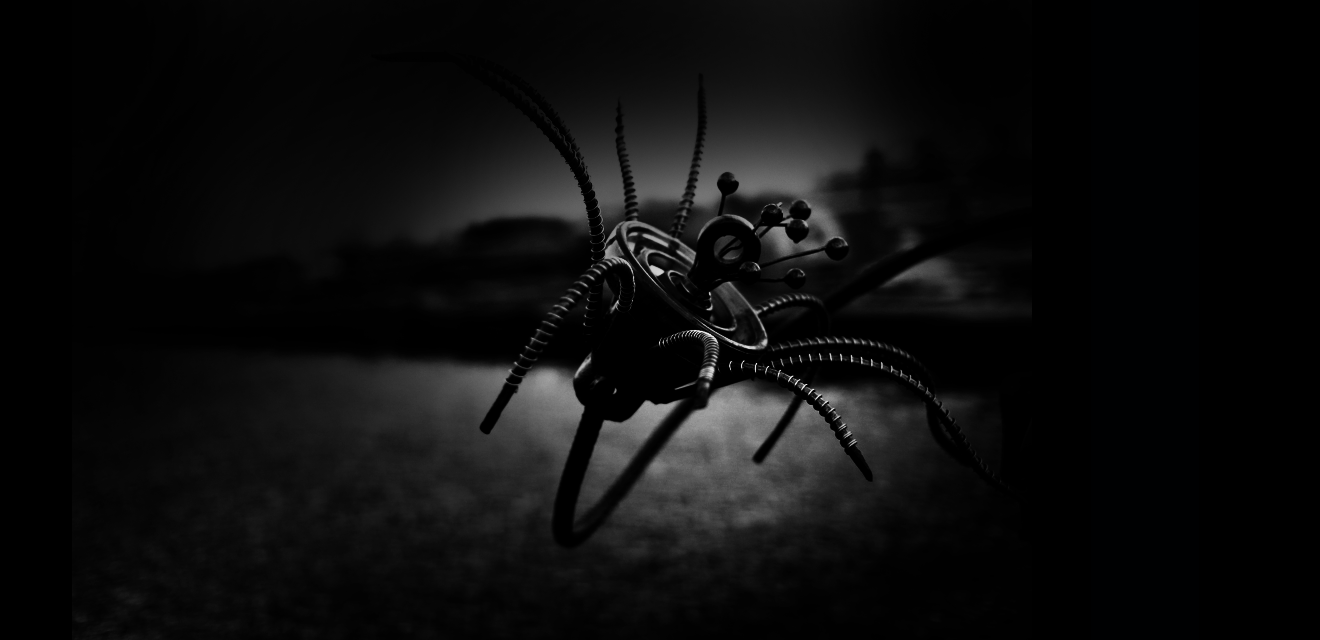
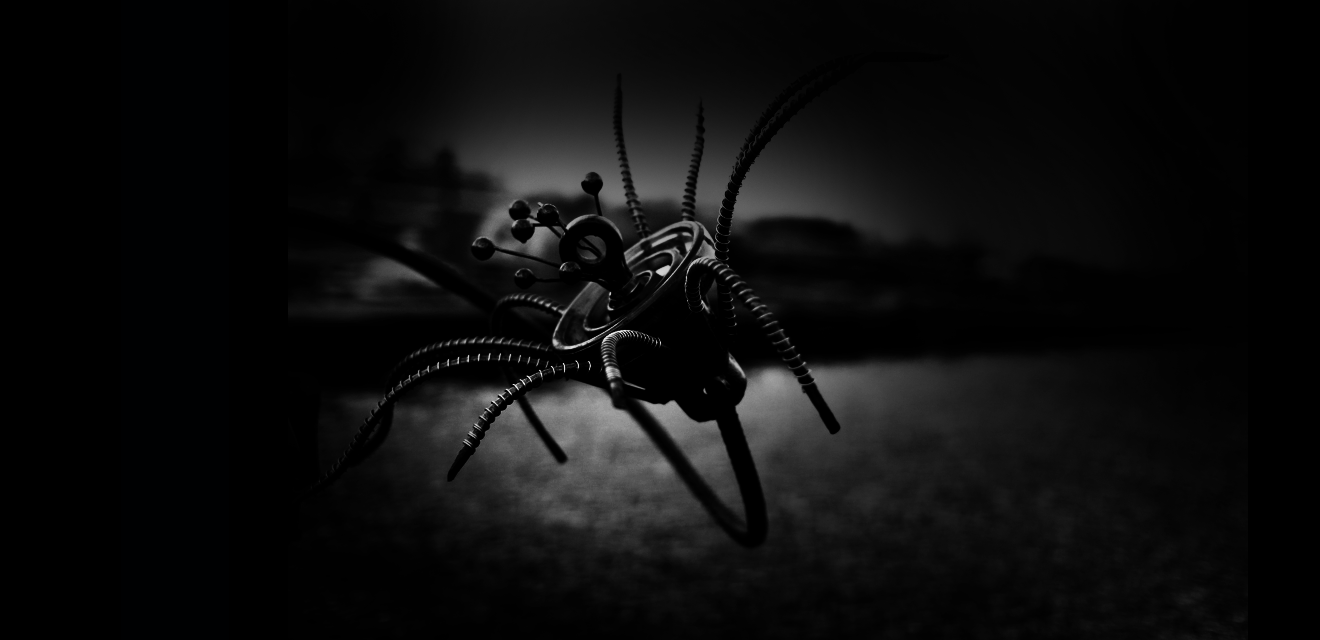
new UI

diff --git a/packages/react-app/src/App.jsx b/packages/react-app/src/App.jsx
@@ -18,6 +18,7 @@ import "graphiql/graphiql.min.css";
 import fetch from "isomorphic-fetch";
 import "./App.css";
 import {
+  About,
   Account,
   Contract,
   Address,
@@ -282,8 +283,10 @@ function App(props) {
   // keep track of a variable from the contract in the local React state:
 
   const artist = useContractReader(readContracts, "plantoid", "artist");
+  const owner  = useContractReader(readContracts, "plantoid", "owner"); 
 
   console.log({ artist });
+  console.log({owner})
 
   const plantoidAddressRead = readContracts?.plantoid?.address;
 
@@ -376,7 +379,9 @@ function App(props) {
   return (
     <div className="App">
       {/* ✏ Edit the header and change the title to your project name */}
-      <Header title="🥀 Plantoid" link="http://plantoid.org" subTitle="Feed me">
+      <Header title="🥀 Plantoid" link="http://plantoid.org" subTitle="a blockchain-based life-form">
+
+
         {/* 👨💼 Your account is in the top right with a wallet at connect options */}
         <div style={{ position: "relative", display: "flex", flexDirection: "column" }}>
           <div style={{ display: "flex", flex: 1 }}>
@@ -390,9 +395,9 @@ function App(props) {
               </div>
             )}
             <Account
-              useBurner={USE_BURNER_WALLET}
+              // useBurner={USE_BURNER_WALLET}
               address={address}
-              localProvider={localProvider}
+              // localProvider={localProvider}
               userSigner={userSigner}
               mainnetProvider={mainnetProvider}
               price={price}
@@ -403,18 +408,21 @@ function App(props) {
             />
           </div>
         </div>
+
+        
       </Header>
+
       {yourLocalBalance.lte(ethers.BigNumber.from("0")) && (
         <FaucetHint localProvider={localProvider} targetNetwork={targetNetwork} address={address} />
       )}
-      <NetworkDisplay
+      {/* <NetworkDisplay
         NETWORKCHECK={NETWORKCHECK}
         localChainId={localChainId}
         selectedChainId={selectedChainId}
         targetNetwork={targetNetwork}
         logoutOfWeb3Modal={logoutOfWeb3Modal}
         USE_NETWORK_SELECTOR={USE_NETWORK_SELECTOR}
-      />
+      /> */}
 
       <div>
         <hr class="style-eight"></hr>
@@ -428,14 +436,25 @@ function App(props) {
 
       <Menu style={{ textAlign: "center", marginTop: 20 }} selectedKeys={[location.pathname]} mode="horizontal">
         <Menu.Item key="/">
-          <Link to="/">Feed</Link>
+          <Link to="/">Feed Plantoid</Link>
         </Menu.Item>
         <Menu.Item key="/reveal">
-          <Link to="/reveal">Reveal</Link>
+          <Link to="/reveal">Claim NFTs</Link>
         </Menu.Item>
+        <Menu.Item key="/about">
+          <Link to="/about">About</Link>
+        </Menu.Item>
+
+
+        {/* only display these menu items, if the connected users is the plantoid  */}
+
+          {/* {plantoidAddress} */}
+          {/* { (address == plantoidAddress) && (<span> FUCK </span>) }   */}
+
         <Menu.Item key="/subgraph">
           <Link to="/subgraph">Subgraph</Link>
         </Menu.Item>
+
         <Menu.Item key="/contracts">
           <Link to="/contracts">Contracts</Link>
         </Menu.Item>
@@ -449,39 +468,46 @@ function App(props) {
               <h2>Plantoid #13</h2>
               <Divider />
               <div style={{ margin: 8 }}></div>
-              Hello !<br/>
-              <br/>
 
             <table>
-            <td>
-              <Image 
-                width={200}
-                height={370}
-                src="https://gateway.pinata.cloud/ipfs/QmQMna9Y3voEHJEZN4YEn9f35ivmr61sernPTbScRcEZzT"
+            <td  >
+              <Image style={{border: "1px solid ", marginLeft: "-50px" }}
+                width={350}
+                height={520}
+                src="https://gateway.pinata.cloud/ipfs/QmcNY71soxdqjNhhwQkfLFDGRx4kaVva7ERFiNWa1ZFk5m"
               />
              </td>
-              <td>
-              <table>
-                <td>Smart Contract:</td>
-             <td><Address
-                address={plantoidAddress}
-                ensProvider={mainnetProvider}
-                blockExplorer={blockExplorer}
-                fontSize={20}
-              /></td><tr/>
-              <td>Artist:  </td>
-              <td><Address address={artist} ensProvider={mainnetProvider} blockExplorer={blockExplorer} fontSize={20} /></td>
-              <tr/><td><Divider /></td>
-              Current balance: {ethers.utils.formatEther(plantoidBalance.toString())} <br />
-              Required threshold: {threshold ? ethers.utils.formatEther(threshold.toString()) : "???"} <br />
-              Currently in escrow: {escrow ? ethers.utils.formatEther(escrow.toString()) : "???"}
+              <td valign='top'>
+              
+              <table align="right">
+                <td  align="right">Smart Contract:</td>
+                <td><Address
+                    address={plantoidAddress}
+                    ensProvider={mainnetProvider}
+                    blockExplorer={blockExplorer}
+                    fontSize={24}
+                  /></td>
+                <tr/>
+
+                <td align="right">Artist:  </td>
+                <td><Address address={artist} ensProvider={mainnetProvider} blockExplorer={blockExplorer} fontSize={24} /></td>
+                <tr/>
+
+                <td><Divider /></td><tr/>
+
+              <td align="right">Current balance:</td>
+              <td> {ethers.utils.formatEther(plantoidBalance.toString())}</td><tr/>
+              <td>Required threshold:</td>
+              <td>{threshold ? ethers.utils.formatEther(threshold.toString()) : "???"}</td><tr/>
+              <td>Currently in escrow:</td>
+              <td>{escrow ? ethers.utils.formatEther(escrow.toString()) : "???"}</td>
              
               </table>
               </td> 
              </table> 
               
               <Divider />
-              Feed me !
+              <h2>Feed me !</h2>
               <EtherInput
                 price={price}
                 value={txValue}
@@ -556,6 +582,11 @@ function App(props) {
             mainnetProvider={mainnetProvider}
           ></Reveal>
         </Route>
+
+        <Route exact path="/about">
+          <About></About>
+        </Route>
+
         <Route path="/subgraph">
           <Subgraph
             subgraphUri={props.subgraphUri}
@@ -596,7 +627,7 @@ function App(props) {
 
       {/* 🗺 Extra UI like gas price, eth price, faucet, and support: */}
       <div style={{ position: "fixed", textAlign: "left", left: 0, bottom: 20, padding: 10 }}>
-        <Row align="middle" gutter={[4, 4]}>
+        {/* <Row align="middle" gutter={[4, 4]}>
           <Col span={8}>
             <Ramp price={price} address={address} networks={NETWORKS} />
           </Col>
@@ -618,7 +649,7 @@ function App(props) {
               Support
             </Button>
           </Col>
-        </Row>
+        </Row> */}
 
         <Row align="middle" gutter={[4, 4]}>
           <Col span={24}>

diff --git a/packages/react-app/src/components/About.jsx b/packages/react-app/src/components/About.jsx
@@ -1,0 +1,54 @@
+import { Button, Col, Menu, Row, Input, Divider, List, Image } from "antd";
+
+export default function About() {
+    return (
+        
+        <div style={{ border: "1px solid #cccccc", padding: 16, width: 800, margin: "auto", marginTop: 64 }}>
+          <h2>Plantoid #13</h2>
+          <Divider />
+       
+        <table valign="top">
+        <td>
+          <Image style={{border: "1px solid ", marginLeft: "-50px" }}
+            width={350}
+            height={520}
+            src="https://gateway.pinata.cloud/ipfs/QmcNY71soxdqjNhhwQkfLFDGRx4kaVva7ERFiNWa1ZFk5m"
+          />
+         </td>
+
+         <td><span class="plantoid-text-cursive">Plantoids are the plant equivalent of an android; a robot or a synthetic organism designed to look, act and grow like a plant.<br/>
+        <br/> Plantoids are blockchain-based life-forms that live off crypto-currency. 
+        They are:<br/> <br/>
+        <ul>
+            <li><b>autonomous</b>, i.e. not controlled by anyone,</li>
+            <li><b>self-sufficient</b> as they survive on their own, and </li>
+            <li><b>capable of reproducing themselves</b>.</li>
+            </ul>
+         <br/>Yet, like most plants, Plantoids cannot reproduce themselves on their own. They rely on capitalisation (as opposed to pollinisation) to reproduce.<br/>
+         <br/>Specifically, Plantoids collect crypto-currency and then use the collected funds to hire new artists, commissioned to create new replicas of themselves via an evolutionary algorithm.<br/>
+         </span><br/>
+         <Divider></Divider>
+        <span class="plantoid-text-cursive"> 
+         Plantoids is an art project initiated in 2014 by Primavera De Filippi, artist, activist and legal scholar, working on the field of cryptocurrency and blockchain technology.<br/>
+         <br/>The goal of the Plantoid project is to illustrate one of the most revolutionary—and yet still unexplored—aspects of blockchain technology: the ability to create autonomous entities that can both own (crypto-)property and enter into (smart-)contractual relationships, without the need to rely on any third-party (legal) entity. </span></td>
+        
+        </table>
+
+        <br/><span class="plantoid-text-cursive">
+        Plantoid #13 was born out of the contribution of many friends and colleagues, which I am deeply appreciative of.<br/>
+        These include, in particular:<br/><br/>
+        <ul>
+            <li>Yannick LeDaniel — body art and design</li>
+            <li>Martin Vert — electronics and music wiz</li>
+            <li>Isaac Patka — smart contract architecture</li></ul>
+            <Divider></Divider><ul>
+            <li>Leo Blondel & Patrick Deegan — electronics support</li>
+            <li>Louis Parker & Dimi DeJonghe — frontend support</li>
+            </ul><Divider></Divider><ul>
+            <li>All members of Feytopia and the GLITCH community who made me believe that everything is possible</li>
+        </ul>
+        </span>
+      
+      </div>
+    )
+}

diff --git a/packages/react-app/src/components/Address.jsx b/packages/react-app/src/components/Address.jsx
@@ -76,13 +76,14 @@ export default function Address(props) {
   return (
     <span>
       <span style={{ verticalAlign: "middle" }}>
-        <Blockies seed={address.toLowerCase()} size={8} scale={props.fontSize ? props.fontSize / 7 : 4} />
+        {/* <Blockies seed={address.toLowerCase()} size={4} scale={props.fontSize ? props.fontSize / 7 : 4} /> */}
       </span>
       <span style={{ verticalAlign: "middle", paddingLeft: 5, fontSize: props.fontSize ? props.fontSize : 28 }}>
-        {props.onChange ? (
-          <Text editable={{ onChange: props.onChange }} copyable={{ text: address }}>
+       
+          <Text > 
+            {/* copyable={{ text: address }}> */}
             <a
-              style={{ color: currentTheme === "light" ? "#222222" : "#ddd" }}
+              style={{ color: "gray" }}
               target="_blank"
               href={etherscanLink}
               rel="noopener noreferrer"
@@ -90,18 +91,7 @@ export default function Address(props) {
               {displayAddress}
             </a>
           </Text>
-        ) : (
-          <Text copyable={{ text: address }}>
-            <a
-              style={{ color: currentTheme === "light" ? "#222222" : "#ddd" }}
-              target="_blank"
-              href={etherscanLink}
-              rel="noopener noreferrer"
-            >
-              {displayAddress}
-            </a>
-          </Text>
-        )}
+      
       </span>
     </span>
   );

diff --git a/packages/react-app/src/components/Reveal.jsx b/packages/react-app/src/components/Reveal.jsx
@@ -7,6 +7,8 @@ import PlantoidABI from "../contracts/plantoid";
 import PlantoidMetdataABI from "../contracts/plantoidMetadata";
 import { Address } from "../components";
 
+import _ from 'lodash';
+
 const { ethers } = require("ethers");
 
 export default function Reveal({ address, userSigner, user, graphData, round, roundState, mainnetProvider }) {
@@ -24,6 +26,9 @@ export default function Reveal({ address, userSigner, user, graphData, round, ro
       title: "Seed",
       key: "token",
       render: record => record.tokenId,
+      // sorter: {
+      //   compare: (a,b) => a.tokenId - b.tokenId
+      // }
     },
     {
       title: "Reveal",
@@ -58,7 +63,7 @@ export default function Reveal({ address, userSigner, user, graphData, round, ro
     return (
       <div>
       <div style={{ width: 780, margin: "auto", paddingBottom: 64 }}>
-        {graphData ? <Table dataSource={graphData.holder.seeds} columns={revealColumns} rowKey="id" /> : <span>No data</span>}
+        {graphData && graphData.holder ? <Table dataSource={ _.sortBy(graphData.holder.seeds, function(o) {return Number(o.tokenId)})} columns={revealColumns} rowKey="id" /> : <span>No data</span>}
       </div>
     </div>
     )

diff --git a/packages/react-app/src/index.css b/packages/react-app/src/index.css
@@ -5,10 +5,10 @@
 
 body {
   margin: 0;
-  background-image: url("themes/header.png");
+  background-image: url("themes/header2.png");
   background-repeat: no-repeat;
   background-attachment: fixed;
-  background-position: left top;
+  background-position: right top;
 }
 
 code {
@@ -32,4 +32,14 @@ hr.style-eight {
   border: 0;
   height: 1px;
   background-image: linear-gradient(to right, rgba(255, 255, 255, 0), rgba(255, 255, 255, 0.75), rgba(255, 255, 255, 0));
+}
+
+.plantoid-text-cursive {
+  display: block;
+  font-family: Verdana, Geneva, Tahoma, sans-serif;
+  font-weight: 50 !important;
+  font-size: 13px !important;
+  line-height: 100% !important;
+  text-align: justify !important;
+  /*color: gray; */
 }

diff --git a/packages/react-app/src/index.jsx b/packages/react-app/src/index.jsx
@@ -11,8 +11,6 @@ const themes = {
   light: `${process.env.PUBLIC_URL}/light-theme.css`,
 };
 
-const prevTheme = window.localStorage.getItem("theme");
-console.log("prev theme =" + prevTheme);
 
 const subgraphUri = "https://api.thegraph.com/subgraphs/name/ipatka/plantoid-testnet"
 // const subgraphUri = "http://localhost:8000/subgraphs/name/scaffold-eth/your-contract";
@@ -24,7 +22,7 @@ const client = new ApolloClient({
 
 ReactDOM.render(
   <ApolloProvider client={client}>
-    <ThemeSwitcherProvider themeMap={themes} defaultTheme={prevTheme || "dark"}>
+    <ThemeSwitcherProvider themeMap={themes} defaultTheme={"dark"}>
       <BrowserRouter>
         <App subgraphUri={subgraphUri} />
       </BrowserRouter>

diff --git a/packages/react-app/src/components/ThemeSwitch.jsx b/packages/react-app/src/components/ThemeSwitch.jsx
@@ -17,7 +17,7 @@ export default function ThemeSwitcher() {
   };
 
   return (
-    <div className="main fade-in" style={{ position: "fixed", right: 8, bottom: 8 }}>
+    <div hidden="true" className="main fade-in" style={{ position: "fixed", right: 8, bottom: 8 }}>
       <span style={{ padding: 8 }}>{currentTheme === "light" ? "☀" : "🌜"}</span>
       <Switch checked={isDarkMode} onChange={toggleTheme} />
     </div>

diff --git a/packages/react-app/src/components/index.js b/packages/react-app/src/components/index.js
@@ -1,3 +1,4 @@
+export { default as About } from "./About";
 export { default as Account } from "./Account";
 export { default as Address } from "./Address";
 export { default as AddressInput } from "./AddressInput";
